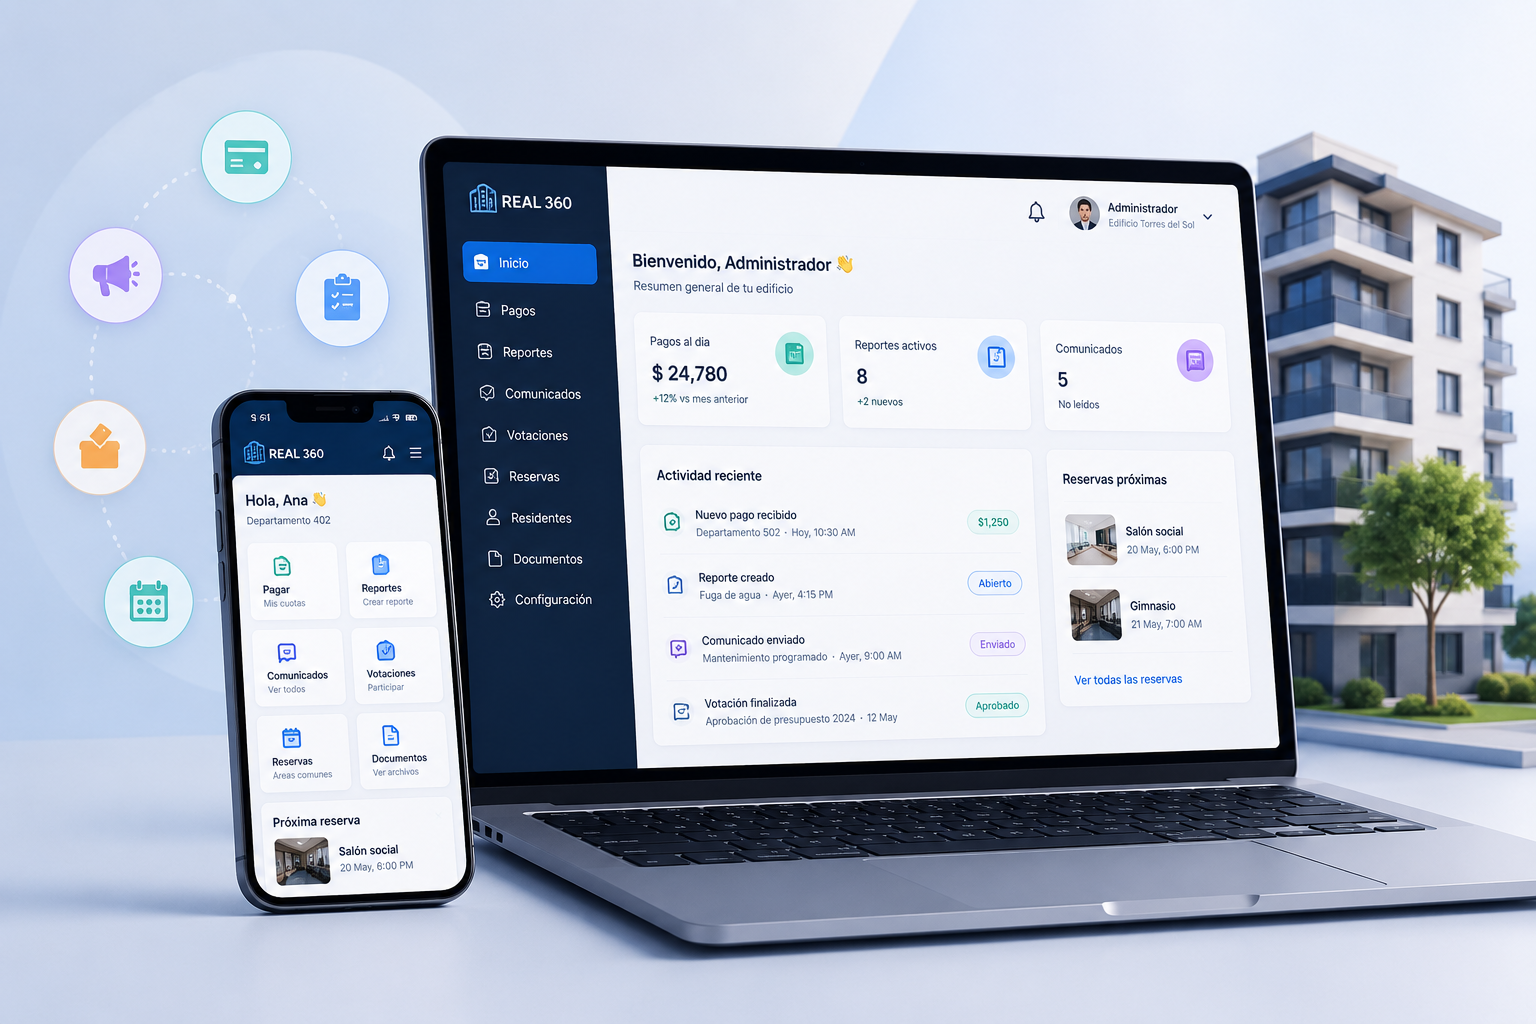
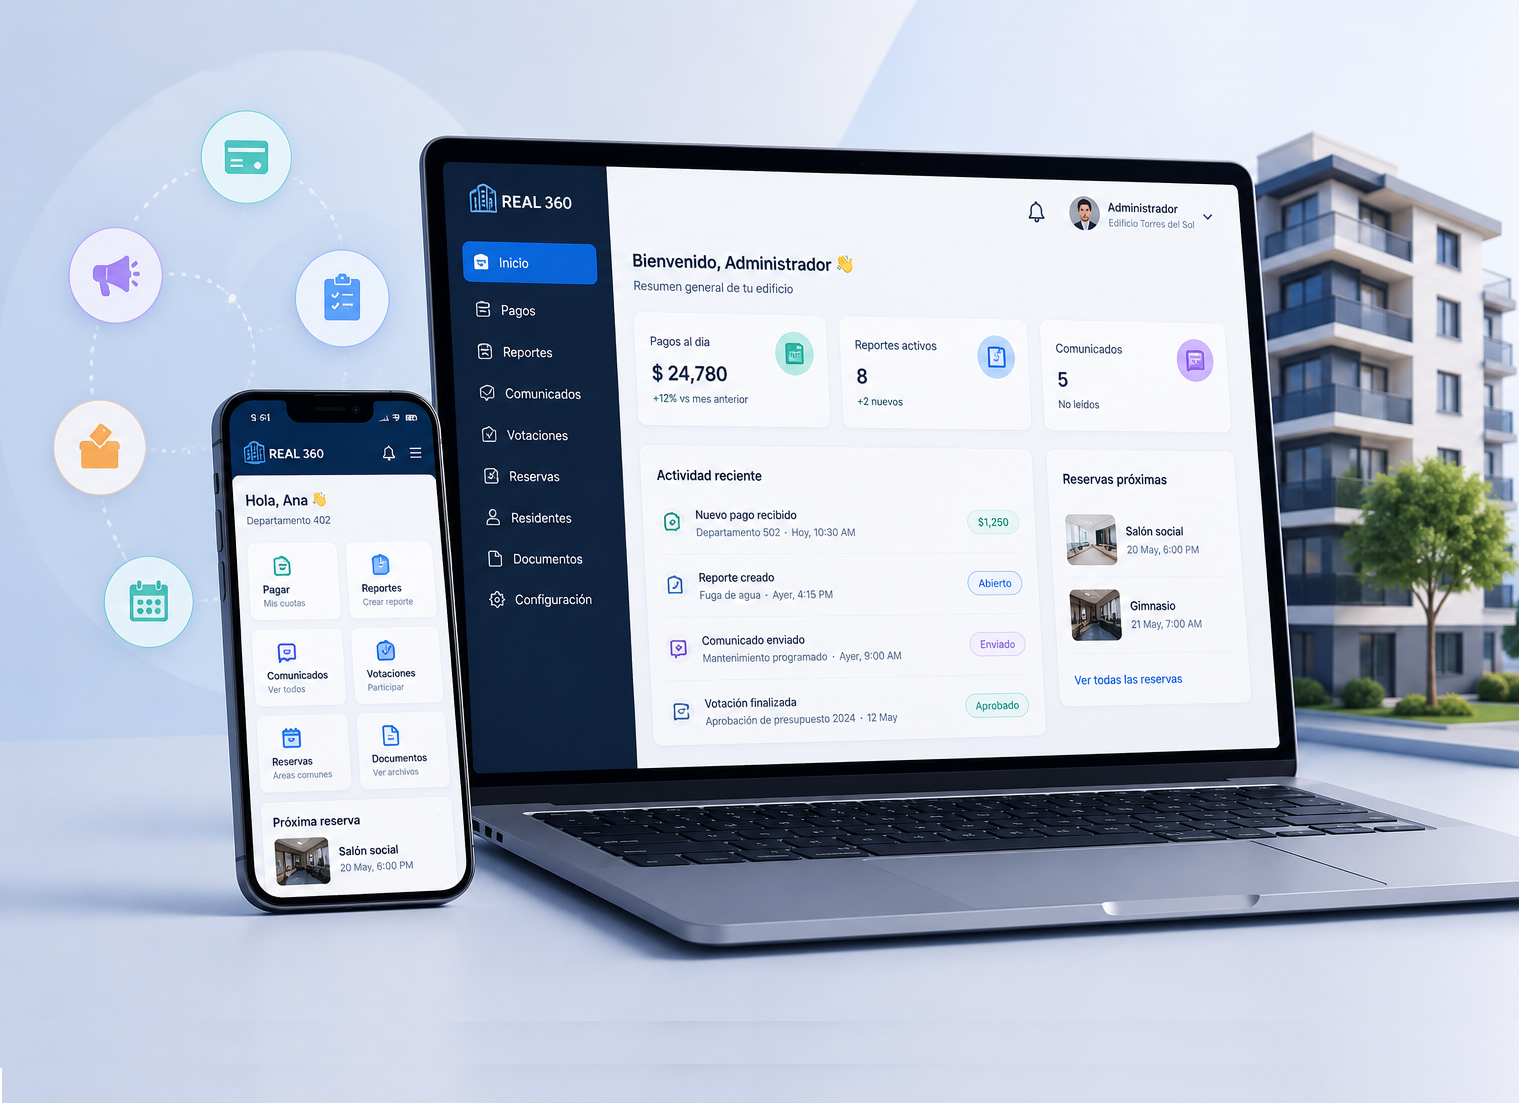
Home version 1.0

diff --git a/src/front/index.css b/src/front/index.css
@@ -3,6 +3,12 @@ body {
   background-color: whitesmoke;
 }
 
+body {
+  margin: 0;
+  background-color: whitesmoke;
+  
+}
+
 .layout {
   min-height: 100vh;
   display: flex;
@@ -14,7 +20,7 @@ body {
 }
 
 .navbar {
-  height: 10vh;
+  /*height: 10vh;*/
   background-color: white;
   font-family: "Poppins", sans-serif;
   color: #021138;
@@ -27,27 +33,77 @@ body {
 
 .nav-link {
   color: #021138;
+  text-decoration: none;
+}
+
+.active-link {
+  text-decoration: underline;
+  text-underline-offset: 6px;
+}
+
+@media (max-width: 992px) {
+  .navbar-collapse {
+    background: white;
+    padding: 20px;
+    border-top: 1px solid #eee;
+  }
+
+  .navbar-nav {
+    flex-direction: column;
+    align-items: center;
+    gap: 12px;
+  }
+
+  .nav-link {
+    font-size: 18px;
+  }
+
+  .btn-login {
+    width: 100%;
+    margin-top: 15px;
+    display: flex;
+    justify-content: center;
+  }
 }
 
 .btn-login {
+  display: inline-flex;
   background-color: white;
-  color: #021138;
+  color: #0d6efd;
   border: 1px solid #0d6efd;
+
+  align-items: center;
+  justify-content: center;
+  gap: 8px;
 }
 
 .btn-login:hover {
   background-color: #0d6efd;
   color: white;
-  border: 1px solid #0d6efd;
+  border-color: #0d6efd;
 }
 
 .jumbotron {
   display: flex;
   height: 40vh;
-  background-color: rgb(194, 207, 246);
-  /*margin: 0;
+  background-color: #c2d0e9;
+  margin: 0;
   padding: 0;
-  align-items: stretch;*/
+}
+
+@media (max-width: 992px) {
+  .jumbotron {
+    flex-direction: column-reverse;
+    height: auto;
+    margin: 0;
+    padding: 0;
+  }
+
+  .jumbotron-image img {
+    height: auto;
+    width: 100%;
+    object-fit: contain;
+  }
 }
 
 @media (max-width: 768px) {
@@ -55,7 +111,13 @@ body {
     flex-direction: column-reverse;
     height: auto;
     margin: 0;
-  padding: 0;
+    padding: 0;
+  }
+
+  .jumbotron-image img {
+    height: auto;
+    width: 100%;
+    object-fit: contain;
   }
 }
 
@@ -65,8 +127,6 @@ body {
 
 .jumbotron-image img {
   height: 100%;
-  width: 100%;
-  /*object-fit: cover;*/
   object-fit: contain;
 }
 
@@ -74,8 +134,10 @@ body {
   background-color: white;
   display: flex;
   /*height: 50vh;*/
+  height: auto;
+  margin: 0;
+  padding: 0;
 }
-
 
 .card-img-top {
   object-fit: cover;
@@ -88,8 +150,9 @@ body {
   background-color: #0d6efd;
 }
 
-footer p {
+.footer p {
   margin: 0;
-  padding: 0;
-  color: white;
+  color: #fff;
+  font-size: 0.9rem;
+  font-weight: 400;
 }

diff --git a/src/front/components/Navbar.jsx b/src/front/components/Navbar.jsx
@@ -1,14 +1,16 @@
-import { Link } from "react-router-dom";
+import { NavLink } from "react-router-dom";
 import logo from "../assets/img/logo-real360.png";
 
+
 export const Navbar = () => {
+	const getNavClass = ({ isActive }) => isActive ? "nav-link active-link" : "nav-link";
+
 	return (
-	<div className="container">
 		<nav className="navbar navbar-expand-lg">
-			<div className="container navbar-subcontainer">
-				<Link className="navbar-brand d-flex align-items-center" to="/">
+			<div className="container">
+				<NavLink className="navbar-brand d-flex align-items-center" to="/">
 					<img src={logo} alt="REAL 360" height="30" />
-				</Link>
+				</NavLink>
 
 				<button className="navbar-toggler" type="button" data-bs-toggle="collapse" data-bs-target="#navbarSupportedContent" aria-controls="navbarSupportedContent" aria-expanded="false" aria-label="Toggle navigation">
 					<span className="navbar-toggler-icon"></span>
@@ -16,22 +18,28 @@ export const Navbar = () => {
 
 				<div className="collapse navbar-collapse" id="navbarSupportedContent">
 					<ul className="navbar-nav mx-auto mb-2 mb-lg-0 gap-3">
-						<li className="nav-item"><Link className="nav-link" to="/"> Inicio </Link></li>
-						<li className="nav-item"><Link className="nav-link" to="/about"> Nosotros </Link></li>
-						<li className="nav-item"><Link className="nav-link" to="/services"> Servicios </Link></li>
-						<li className="nav-item"><Link className="nav-link" to="/contact"> Contáctanos </Link></li>
-						<li className="nav-item"><Link className="nav-link" to="/blog"> Blog </Link></li>
+						<li className="nav-item">
+							<NavLink to="/" className={getNavClass}>Inicio</NavLink>
+						</li>
+						<li className="nav-item">
+							<NavLink to="/about" className={getNavClass}>Nosotros</NavLink>
+						</li>
+						<li className="nav-item">
+							<NavLink to="/services" className={getNavClass}>Servicios</NavLink>
+						</li>
+						<li className="nav-item">
+							<NavLink to="/contact" className={getNavClass}>Contáctanos</NavLink>
+						</li>
+						<li className="nav-item">
+							<NavLink to="/blog" className={getNavClass}>Blog</NavLink>
+						</li>
 					</ul>
-
-					<Link to="/login">
-						<button className="btn btn-login">
-							<i className="fa-brands fa-expeditedssl fa-lg"></i>&nbsp;
-							Inicia sesión
-						</button>
-					</Link>
+					<NavLink to="/login" className="btn btn-login">
+						<i className="fa-brands fa-expeditedssl"></i>
+						<span>Inicia sesión</span>
+					</NavLink>
 				</div>
 			</div>
 		</nav>
-	</div>
 	);
 };

diff --git a/src/front/components/Features.jsx b/src/front/components/Features.jsx
@@ -1,24 +1,28 @@
 import React from "react";
 import { Card } from "./Card";
+import beneficio1 from "../assets/img/b1-gestion-eficiente.png";
+import beneficio2 from "../assets/img/b2-morosidad-controlada.png";
+import beneficio3 from "../assets/img/b3-cuidamos-tu-propiedad.png";
+import beneficio4 from "../assets/img/b4-comunicacion-constante.jpg";
 
 export const Features = () => {
 	const cardImages = [
-		{url:"https://images.pexels.com/photos/20545013/pexels-photo-20545013.jpeg",title:"Gestiona tu Edificio", subtitle: "Optimiza la administración de tu edificio y mejora la experiencia de los residentes.."},
-		{url:"https://images.pexels.com/photos/7714698/pexels-photo-7714698.jpeg",title:"Contratación de Personal", subtitle: "Encuentra y contrata personal confiable para tu edificio de forma rápida y segura."},
-		{url:"https://images.pexels.com/photos/19789841/pexels-photo-19789841.jpeg",title:"Mantenimientos", subtitle: "Accede a servicios de mantenimiento especializados para mantener tu edificio en óptimas condiciones.."},
-		{url:"https://images.pexels.com/photos/8470837/pexels-photo-8470837.jpeg",title:"Publica tu Inmueble", subtitle: "Publica tu inmueble y encuentra compradores o inquilinos de forma más rápida y eficiente.."}
+		{ url: beneficio1, title: "Gestión Transparente", subtitle: "Gestionamos de manera eficiente tus cuotas, ingresos y gastos, con reportes claros y transparentes para una mejor toma de decisiones." },
+		{ url: beneficio2, title: "Control de morosidad", subtitle: "Contribuimos a reducir la morosidad del edificio implementando alertas oportunas y un seguimiento preciso de los pagos pendientes." },
+		{ url: beneficio3, title: "Cuidado de tu Propiedad", subtitle: "Realizamos los mantenimientos oportunos y aseguramos que tu propiedad siempre esté limpia, operativa y presentable." },
+		{ url: beneficio4, title: "Comunicación Oportuna", subtitle: "Mantenemos a todos los residentes informados y siempre comunicados con avisos claros, oportunos y constantes." }
 	];
-  return (
-    <div className = "Container features">
-      <div className = "row g-4 p-3 features-row">{
-		cardImages.map((img,index) => {
-			return (
-				<div className="col-lg-3 col-md-6 col-12">
-					<Card key={index} url={img.url} title={img.title} subtitle={img.subtitle}/>
-				</div>
-				);
-			})}					
+	return (
+		<div className="Container features">
+			<div className="row g-4 p-3 features-row">{
+				cardImages.map((img, index) => {
+					return (
+						<div className="col-lg-3 col-md-6 col-12 feature-col">
+							<Card key={index} url={img.url} title={img.title} subtitle={img.subtitle} />
+						</div>
+					);
+				})}
+			</div>
 		</div>
-    </div>
-  )
+	)
 }

diff --git a/src/front/components/Footer.jsx b/src/front/components/Footer.jsx
@@ -1,10 +1,5 @@
 export const Footer = () => (
-	<div className="container">
 	<footer className="footer py-2 text-center">
-		<p>
-			Made with <i className="fa fa-heart text-danger" /> by{" "}
-			<a href="http://www.real360.com">Real 360</a>
-		</p>
-	</footer>
-	</div>
+    	<p>© {new Date().getFullYear()} REAL 360. Todos los derechos reservados.</p>
+  	</footer>
 );

diff --git a/src/front/components/Card.jsx b/src/front/components/Card.jsx
@@ -1,13 +1,15 @@
+import { Link } from "react-router-dom";
+
 export const Card = (props) => {
     return (
         <div>
             <div className="card" >
-                <img src={props.url} className="card-img-top" alt={props.title}/>
+                <img src={props.url} className="card-img-top" alt={props.title} />
                 <div className="card-body">
                     <h5 className="card-title">{props.title}</h5>
                     <p className="card-text">{props.subtitle}</p>
                     <hr />
-                    <a href="#" className="btn btn-primary">Cotiza Ahora</a>
+                    <Link to="/contact" className="btn btn-primary"> Más Información </Link>
                 </div>
             </div>
         </div>

diff --git a/src/front/pages/Home.jsx b/src/front/pages/Home.jsx
@@ -35,9 +35,9 @@ export const Home = () => {
 	}, [])
 
 	return (
-		<div className="container home">
+		<>
 			<Jumbotron />
 			<Features />
-		</div>
-	);
+		</>
+	)
 }; 

diff --git a/src/front/pages/Services.jsx b/src/front/pages/Services.jsx
@@ -2,6 +2,12 @@ import { Link } from "react-router-dom";
 import React from "react";
 
 export const Services = () => {
+    const cardImages = [
+		{ url: "https://images.pexels.com/photos/20545013/pexels-photo-20545013.jpeg", title: "Gestiona tu Edificio", subtitle: "Optimiza la administración de tu edificio y mejora la experiencia de los residentes.." },
+		{ url: "https://images.pexels.com/photos/7714698/pexels-photo-7714698.jpeg", title: "Contratación de Personal", subtitle: "Encuentra y contrata personal confiable para tu edificio de forma rápida y segura." },
+		{ url: "https://images.pexels.com/photos/19789841/pexels-photo-19789841.jpeg", title: "Mantenimientos", subtitle: "Accede a servicios de mantenimiento especializados para mantener tu edificio en óptimas condiciones.." },
+		{ url: "https://images.pexels.com/photos/8470837/pexels-photo-8470837.jpeg", title: "Publica tu Inmueble", subtitle: "Publica tu inmueble y encuentra compradores o inquilinos de forma más rápida y eficiente.." }
+	];
     return ( 
         <div className="container container-services">
             <p> Estamos trabajando en Services</p>

diff --git a/src/front/components/Jumbotron.jsx b/src/front/components/Jumbotron.jsx
@@ -1,3 +1,4 @@
+import { NavLink } from "react-router-dom";
 import imagen1 from "../assets/img/sistema-real360.png";
 
 export const Jumbotron = () => {
@@ -6,7 +7,9 @@ export const Jumbotron = () => {
       <div className="jumbotron-content">
         <h1 className="jumbotron-title"> Simplifica la gestión de tu edificio</h1>
         <p className="jumbotron-subtitle">Gestiona tus pagos, reportes, comunicados, votaciones y reservas desde una sola plataforma digital diseñada para administradores y residentes.</p>
-        <button className="btn btn-primary btn-lg" type="button">Solicita tu Demo</button>
+        <NavLink to="/contact" className="btn btn-primary">
+          Solicita tu demo
+        </NavLink>
       </div>
       <div className="jumbotron-image">
         <img src={imagen1} alt="Gestión edificios" />